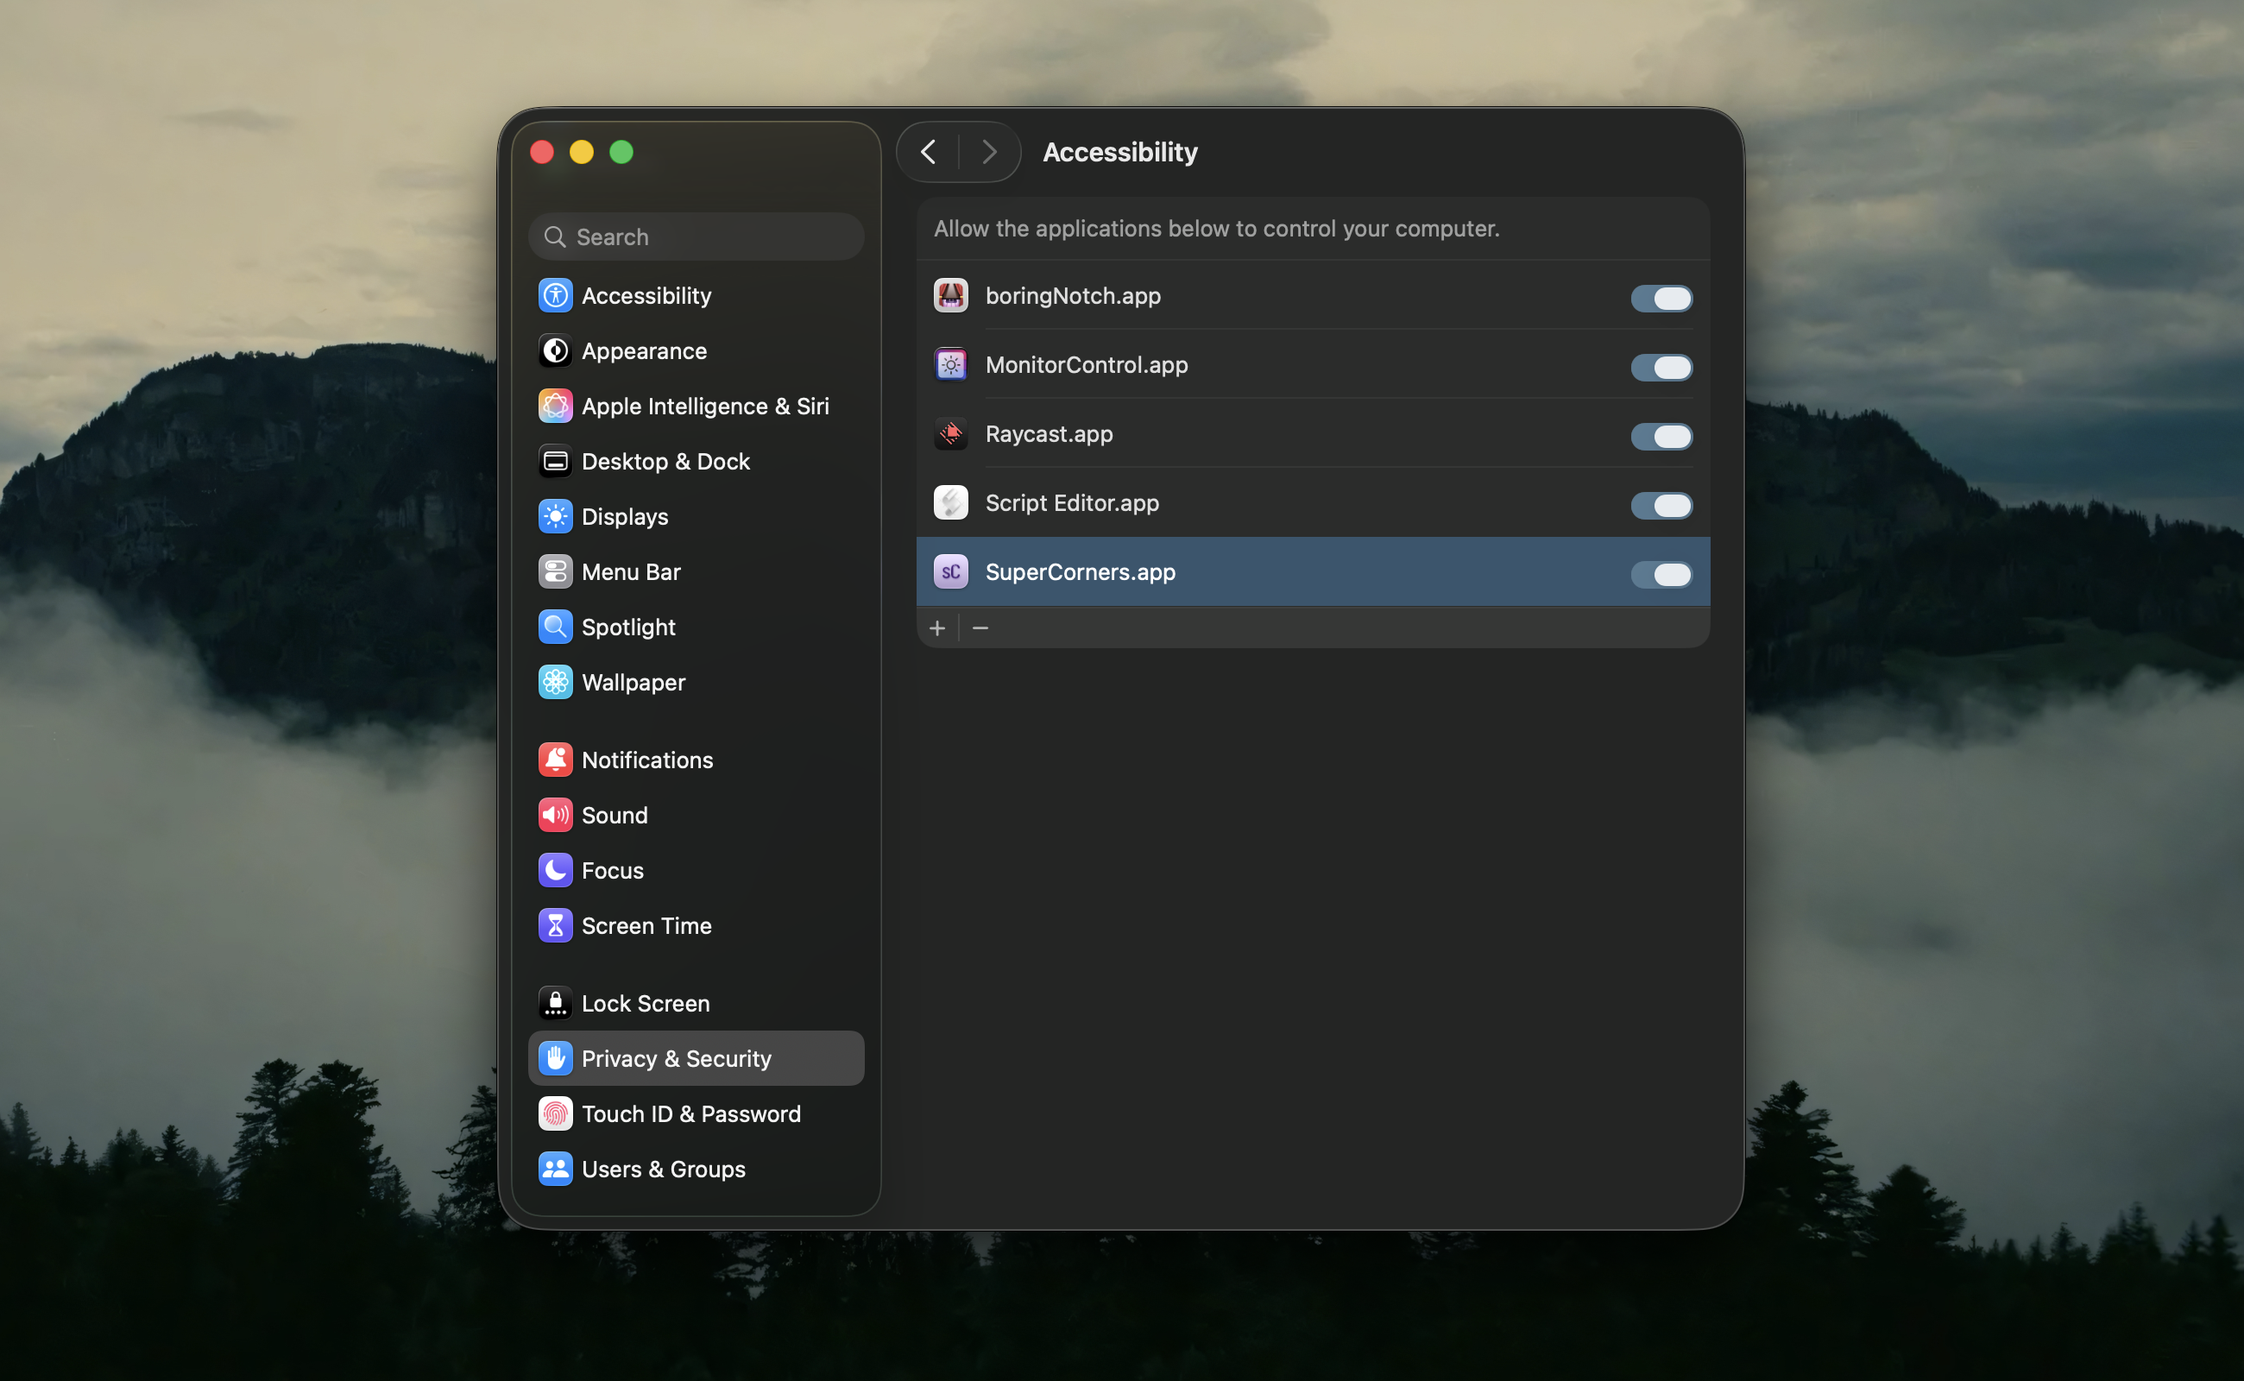
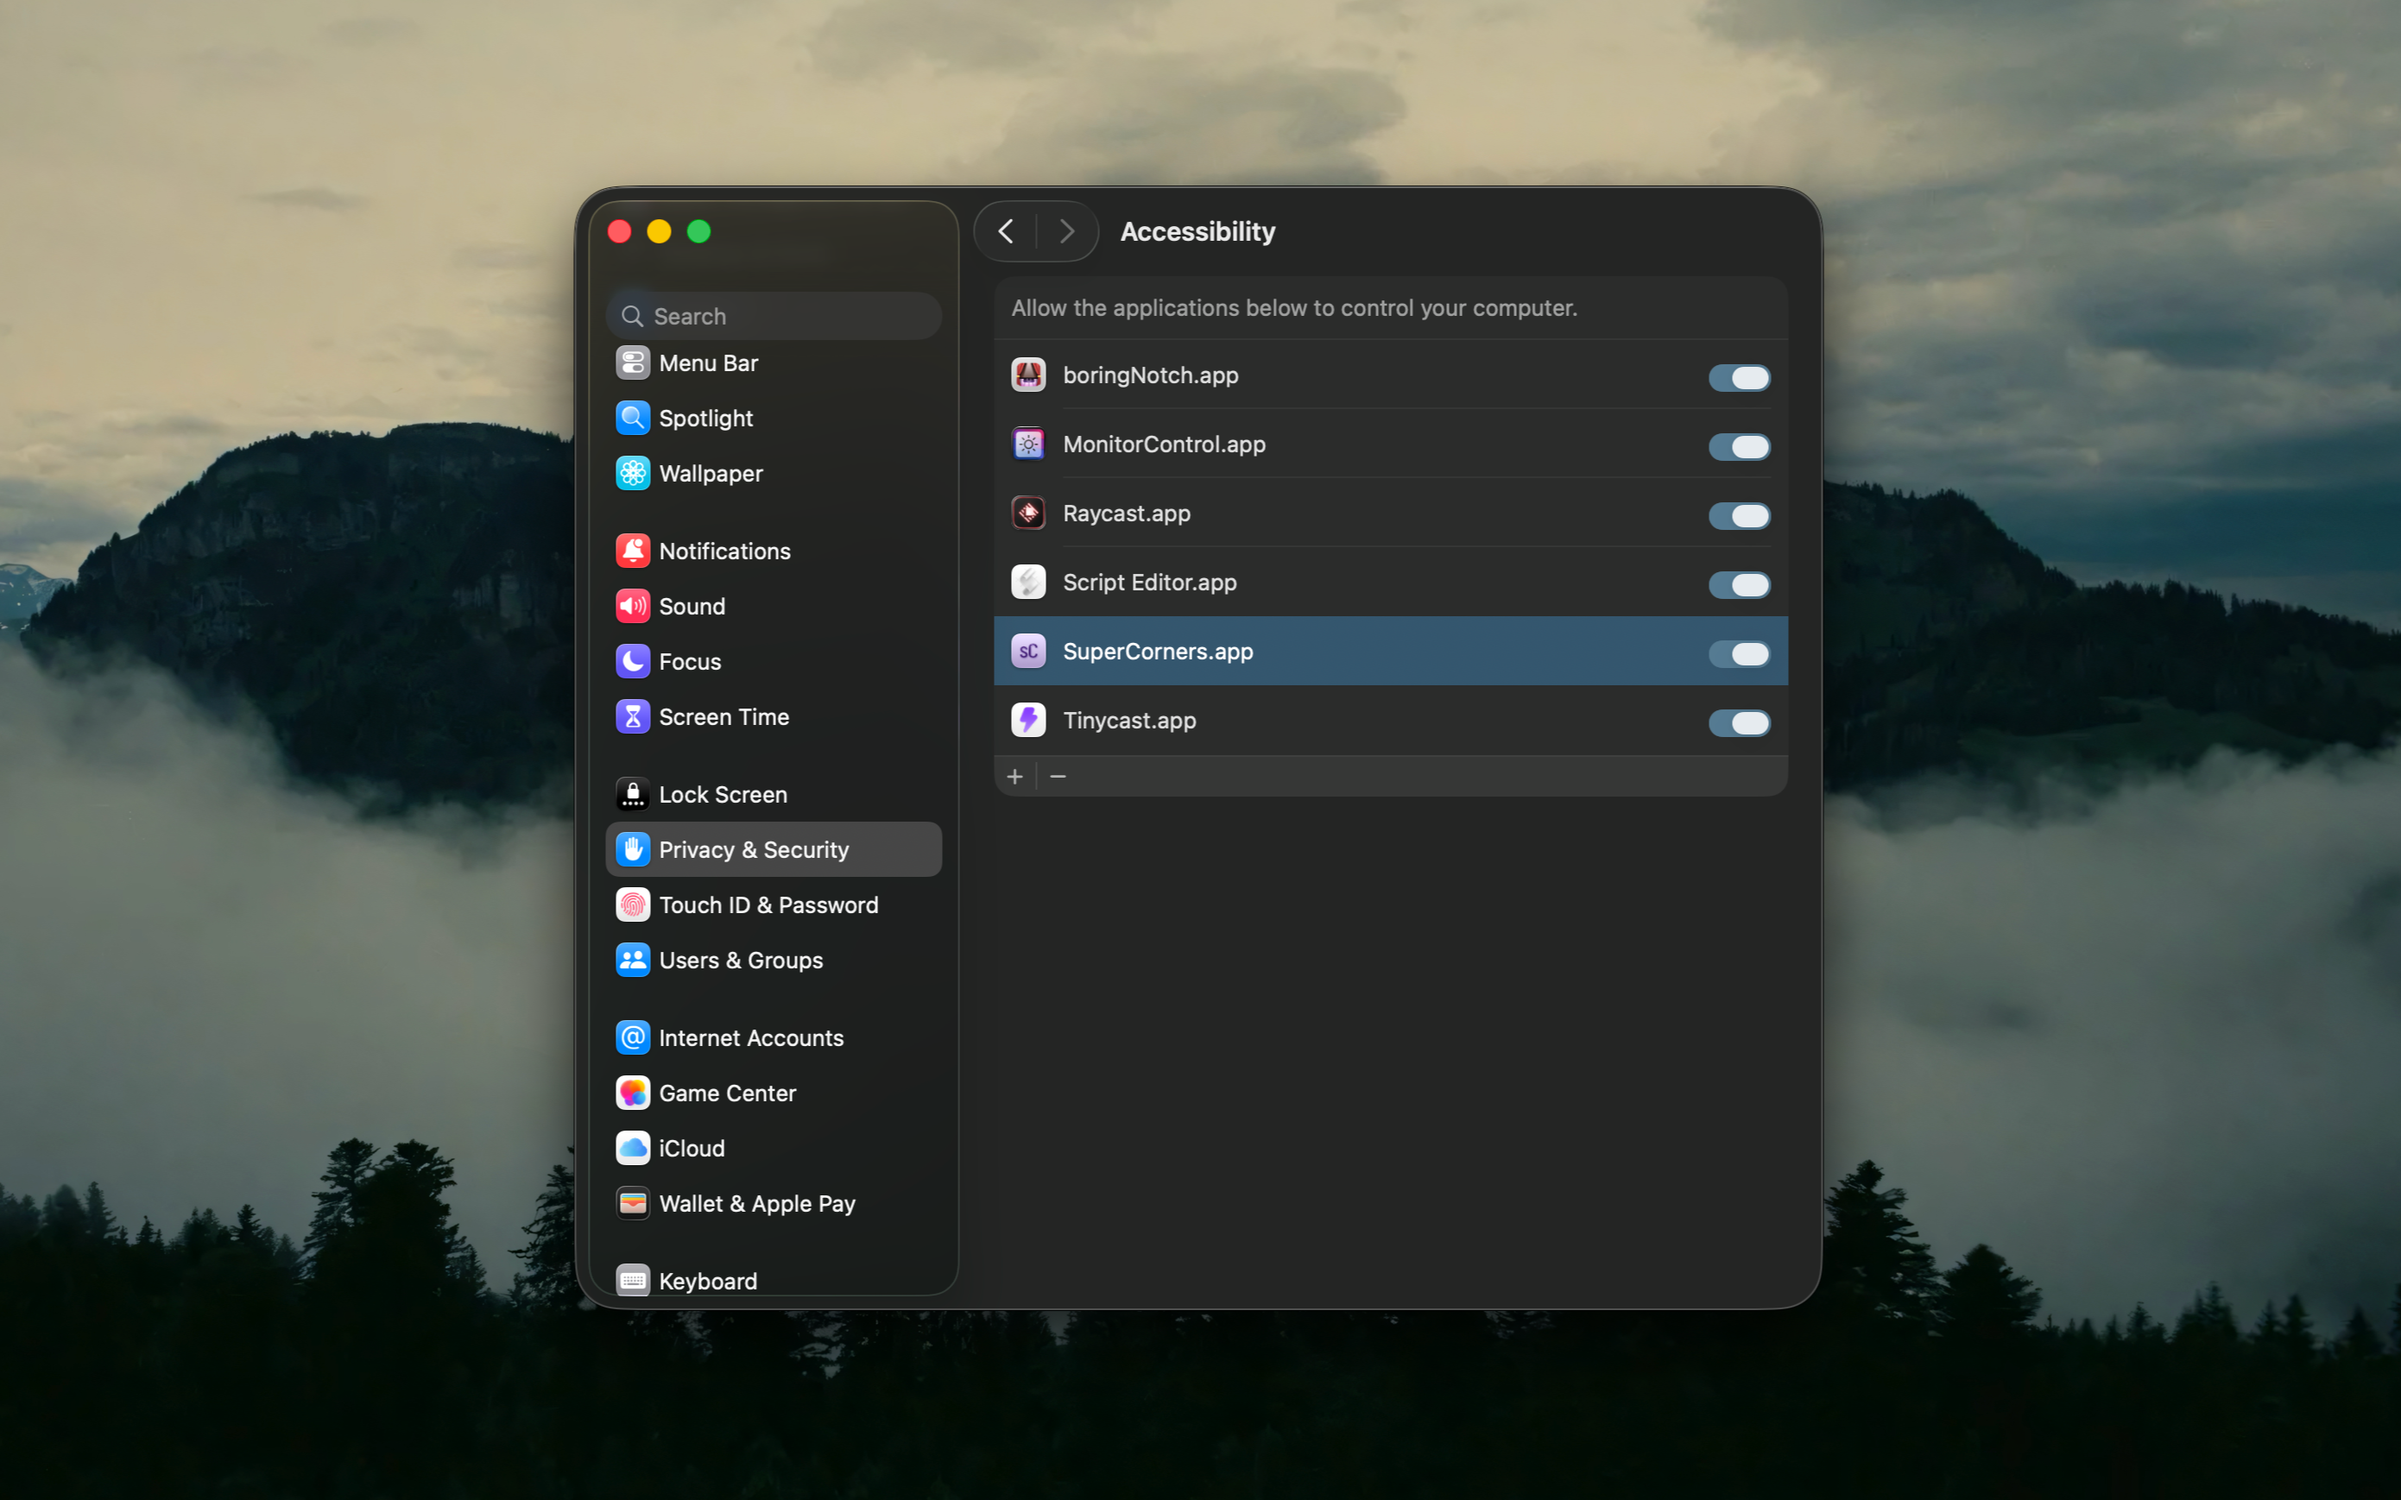
Updated walkthrough screenshots

diff --git a/SuperCorners/AppDelgate.swift b/SuperCorners/AppDelgate.swift
@@ -16,7 +16,7 @@ class AppDelegate: NSObject, NSApplicationDelegate {
     func applicationDidFinishLaunching(_ notification: Notification) {
         let hasShownTour = UserDefaults.standard.bool(forKey: "hasShownTour")
 
-        if !hasShownTour {
+        if hasShownTour {
             NSApp.setActivationPolicy(.regular)
             NSApp.activate(ignoringOtherApps: true)
 
@@ -25,11 +25,11 @@ class AppDelegate: NSObject, NSApplicationDelegate {
                     TourPage(imageName: "tour-welcome", title: "Welcome to SuperCorners", description: "Supercharge your Mac's Corners"),
                     TourPage(imageName: "tour-zones", title: "More Ways to Trigger", description: "Go beyond the corners with 4 additional zones at each edge of your display."),
                     TourPage(imageName: "tour-actions", title: "Powerful Actions", description: "Trigger over 50 different actions to enable powerful workflows."),
-                    TourPage(imageName: "tour-activation", title: "Customizable Activation", description: "Optionally choose between modifier keys, keyboard shortcuts, hovering or clicking."),
+                    TourPage(imageName: "tour-sets", title: "Action Sets", description: "Set actions on a per app basis for maximum control."),
                     TourPage(imageName: "tour-accessibility", title: "Enable Accessibility Permissions", description: "Give SuperCorners accessibility permission for the best experience."),
                     TourPage(imageName: "tour-default", title: "Disable Default Hot Corners", description: "Disable the built in hot corners feature for the best experience."),
                 ],
-                width: 900,
+                width: 800,
                 continueButtonTitle: "Continue",
                 finishButtonTitle: "Get Started",
                 onFinish: {
